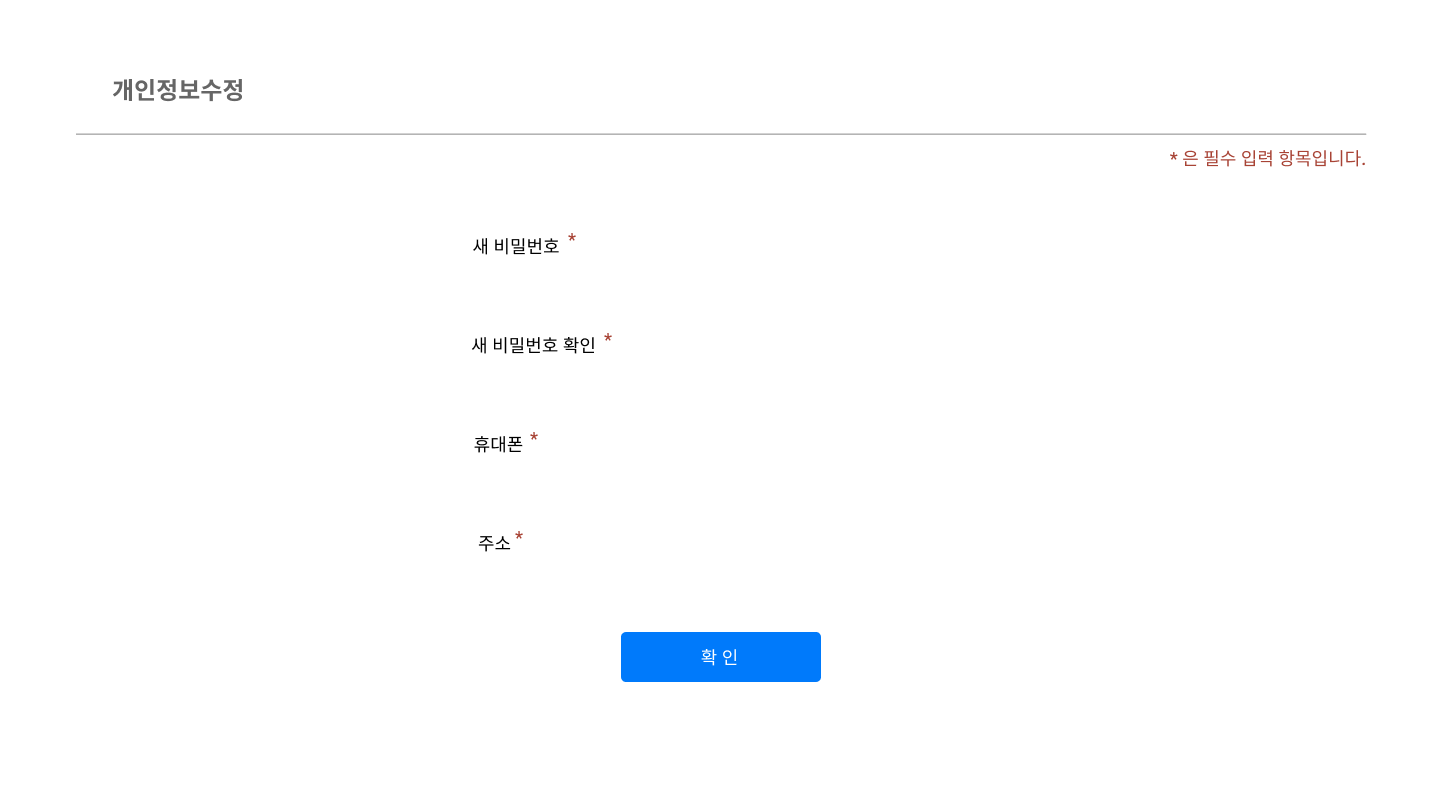
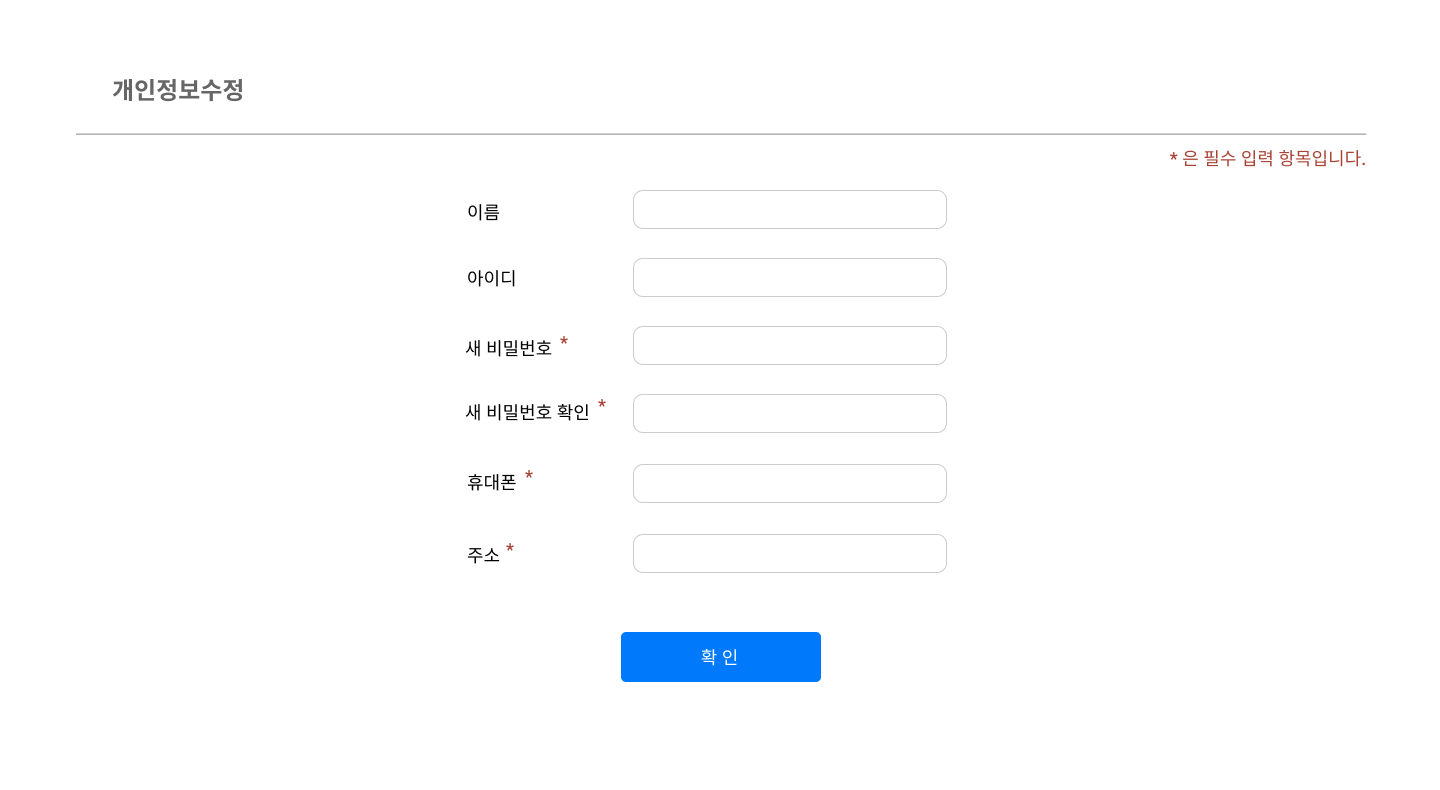
20210203_김태훈
개인정보수정클래스 코드추가

로그인 후 잘 구동이 되는지 획인해야함

diff --git a/src/team/tjhis/gui/UpdateProfilePage.java b/src/team/tjhis/gui/UpdateProfilePage.java
@@ -43,7 +43,11 @@ public class UpdateProfilePage extends JPanel {
 	MainFrame mf;
 	JPanel op;
 
+	public UpdateProfilePage() {}
+	
 	public UpdateProfilePage(MainFrame mf) {
+		
+		MemberDTO md = new MemberDTO();
 
 		String dbFile = "src/team/tjhis/memberDB.txt";
 
@@ -60,21 +64,39 @@ public class UpdateProfilePage extends JPanel {
 		lb.setSize(1440, 790);
 
 		JPasswordField pwdTf = new JPasswordField(20);
-		pwdTf.setSize(250, 40);
-		pwdTf.setLocation(650, 224);
+		pwdTf.setSize(250, 30);
+		pwdTf.setLocation(642, 332);
+		pwdTf.setBorder(null);
 
 		JPasswordField pwdConfirmTf = new JPasswordField(20);
-		pwdConfirmTf.setSize(250, 40);
-		pwdConfirmTf.setLocation(650, 325);
+		pwdConfirmTf.setSize(250, 30);
+		pwdConfirmTf.setLocation(642, 400);
+		pwdConfirmTf.setBorder(null);
 
 		JTextField phoneNumTf = new JTextField(20);
-		phoneNumTf.setSize(250, 40);
-		phoneNumTf.setLocation(650, 425);
+		phoneNumTf.setSize(250, 30);
+		phoneNumTf.setLocation(640, 470);
+		phoneNumTf.setBorder(null);
 
 		JTextField addrTf = new JTextField(20);
-		addrTf.setSize(250, 40);
-		addrTf.setLocation(650, 524);
-
+		addrTf.setSize(250, 30);
+		addrTf.setLocation(640, 540);
+		addrTf.setBorder(null);
+		
+		JTextArea nameArea = new JTextArea();
+		nameArea.setSize(250,27);
+		nameArea.setLocation(643, 200);
+		String nameText = "" + md.getName();
+		nameArea.append(nameText);
+		nameArea.setEditable(false);
+		
+		JTextArea IdArea = new JTextArea();
+		IdArea.setSize(250,27);
+		IdArea.setLocation(643, 268);
+		String IdText = "" + md.getId();
+		IdArea.append(nameText);
+		IdArea.setEditable(false);
+		
 		JButton btn = new JButton("회원정보 수정");
 		btn.setSize(200, 50);
 		btn.setLocation(620, 631);
@@ -96,25 +118,30 @@ public class UpdateProfilePage extends JPanel {
 					objIn = new ObjectInputStream(new BufferedInputStream(new FileInputStream(dbFile)));
 
 					while (true) {
-						MemberDTO dto = (MemberDTO) objIn.readObject();
+						MemberDTO md = (MemberDTO) objIn.readObject();
 						if (pwdTf.getText().equals(pwdConfirmTf.getText()) && !(phoneNumTf.getText().isEmpty())
 								&& !(addrTf.getText().isEmpty())) {
-							dto.setPwd(pwdTf.getText());
-							dto.setPhoneNum(phoneNumTf.getText());
-							dto.setAddr(addrTf.getText());
-//							System.out.println(dto.getPwd());
-//							System.out.println(dto.getPhoneNum());
-//							System.out.println(dto.getAddr());
-							PopUpPage.successPopUp(mf, "정보 수정이 완료되었습니다.");
+							md.setPwd(pwdTf.getText());
+							md.setPhoneNum(phoneNumTf.getText());
+							md.setAddr(addrTf.getText());
+							PopUpPage.successPopUp(mf, "회원정보 수정이 완료되었습니다.");
 							return;
 						}
 					}
-				} catch (FileNotFoundException v) {
-					v.printStackTrace();
-				} catch (IOException v) {
-					PopUpPage.failPopUp(mf, "정보를 다시 입력해주세요.");
-				} catch (ClassNotFoundException v) {
-					v.printStackTrace();
+				} catch (FileNotFoundException e1) {
+					e1.printStackTrace();
+				} catch (IOException e1) {
+					PopUpPage.failPopUp(mf, "회원정보를 다시 입력해주세요.");
+				} catch (ClassNotFoundException e1) {
+					e1.printStackTrace();
+				} finally {
+					if(objIn != null) {
+						try {
+							objIn.close();
+						} catch (IOException e1) {
+							e1.printStackTrace();
+						}
+					}
 				}
 
 			}

diff --git a/src/team/tjhis/gui/JapaneseFoodPage.java b/src/team/tjhis/gui/JapaneseFoodPage.java
@@ -14,6 +14,8 @@ public class JapaneseFoodPage extends JPanel {
 
 	MainFrame mf;
 	JPanel op;
+	
+	public JapaneseFoodPage() {}
 
 	public JapaneseFoodPage(MainFrame mf) {
 
@@ -30,8 +32,6 @@ public class JapaneseFoodPage extends JPanel {
 		JLabel logoLabel = new JLabel(new ImageIcon(image));
 		logoLabel.setBounds(0, 0, 1440, 790);
 		
-		
-
 		JButton btn1 = new JButton();
 		btn1.setSize(140, 50);
 		btn1.setLocation(575, 464);
@@ -72,7 +72,8 @@ public class JapaneseFoodPage extends JPanel {
 
 			@Override
 			public void actionPerformed(ActionEvent e) {
-
+				PopUpPage.failPopUp(mf, "영업이 종료되었습니다.");
+				
 			}
 
 		});
@@ -81,7 +82,7 @@ public class JapaneseFoodPage extends JPanel {
 
 			@Override
 			public void actionPerformed(ActionEvent e) {
-
+				PopUpPage.failPopUp(mf, "영업이 종료되었습니다.");
 			}
 
 		});
@@ -90,7 +91,7 @@ public class JapaneseFoodPage extends JPanel {
 
 			@Override
 			public void actionPerformed(ActionEvent e) {
-
+				PopUpPage.failPopUp(mf, "영업이 종료되었습니다.");
 			}
 
 		});
@@ -99,7 +100,7 @@ public class JapaneseFoodPage extends JPanel {
 
 			@Override
 			public void actionPerformed(ActionEvent e) {
-
+				PopUpPage.failPopUp(mf, "영업이 종료되었습니다.");
 			}
 
 		});

diff --git a/src/team/tjhis/gui/FindIdPage.java b/src/team/tjhis/gui/FindIdPage.java
@@ -23,6 +23,8 @@ public class FindIdPage extends JPanel {
 
 	MainFrame mf;
 	JPanel op;
+	
+	public FindIdPage() {}
 
 	public FindIdPage(MainFrame mf) {
 
@@ -72,20 +74,20 @@ public class FindIdPage extends JPanel {
 							return;
 						}
 					}
-				} catch (EOFException v) {
+				} catch (EOFException e1) {
 					PopUpPage.failPopUp(mf, "일치하는 회원의 정보가 없습니다. 다시 입력해주세요.");
-				} catch (FileNotFoundException v) {
-					v.printStackTrace();
-				} catch (IOException v) {
-					v.printStackTrace();
-				} catch (ClassNotFoundException v) {
-					v.printStackTrace();
+				} catch (FileNotFoundException e1) {
+					e1.printStackTrace();
+				} catch (IOException e1) {
+					e1.printStackTrace();
+				} catch (ClassNotFoundException e1) {
+					e1.printStackTrace();
 				} finally {
 					if (objIn != null) {
 						try {
 							objIn.close();
-						} catch (IOException v) {
-							v.printStackTrace();
+						} catch (IOException e1) {
+							e1.printStackTrace();
 						}
 					}
 				}
